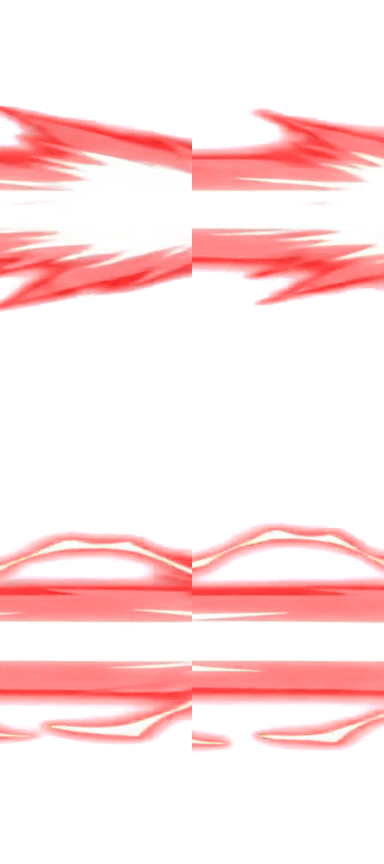
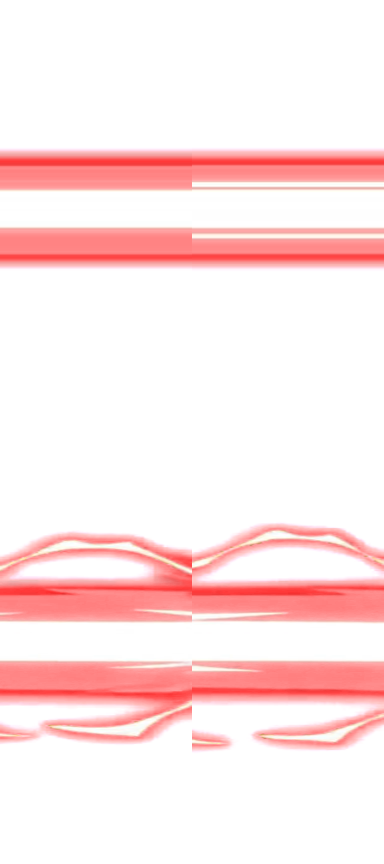
Align An ultimate beam joins only on frames 14 through 22

Changed region(s): [[0.0, 0.25, 1.0, 0.375], [0.0, 0.125, 1.0, 0.2188]]

diff --git a/an-ulti-preview.html b/an-ulti-preview.html
@@ -1,4 +1,5 @@
 <!doctype html><meta charset="utf-8"><title>Hitbox / Hurtbox ULTI An</title><style>body{background:#182131;color:white;font:16px system-ui;text-align:center}canvas{background:#536575;max-width:100%;height:auto}button,input{margin:8px}</style><h3>ULTI AN · Hitbox đỏ / Hurtbox xanh</h3><button id="play">Chạy / Dừng</button><button id="prev">← Frame trước</button><button id="next">Frame sau →</button><input id="frame" type="range" min="1" max="100" value="30"><span id="label"></span><br><label><input id="hit" type="checkbox" checked>Hitbox</label><label><input id="hurt" type="checkbox" checked>Hurtbox</label><button id="face">Đổi hướng</button><div><select id="kind"><option value="hit">Hitbox</option><option value="hurt">Hurtbox</option></select><select id="part"><option value="0">Thân / Hitbox 1</option><option value="1">Đầu / Hitbox 2</option></select><div id="fields"></div><button id="save">Lưu vào game</button><span id="status"></span></div><br><canvas width="1280" height="720"></canvas><script type="module">
+import seams from '/src/an-ulti-seams.json';
 import {ultiBoxEdits,ultiHurtPoints} from '/src/an-ulti-boxes.ts';
 import {getHitboxes,getHurtboxes} from '/src/geometry.ts';import {hitboxCorners} from '/src/hitbox-model.ts';import {AN_ULTI_SCALE as scale,AN_ULTI_ORIGIN_X as ox,AN_ULTI_ORIGIN_Y as oy} from '/src/an-ulti.ts';
 const canvas=document.querySelector('canvas'),ctx=canvas.getContext('2d'),slider=document.querySelector('#frame');let running=false,t=0,last=performance.now(),face=1;
@@ -20,5 +21,5 @@ function point(e){const r=canvas.getBoundingClientRect();return {x:(e.clientX-r.
 canvas.style.touchAction='none';canvas.style.cursor='move';canvas.onpointerdown=e=>{running=false;const p=point(e),i=+slider.value-1;let found;for(const kind of ['hurt','hit']){if(!document.querySelector('#'+kind).checked)continue;for(const [index,b] of boxes(i,kind).entries())if(inside(p,worldPoints(b,kind,index)))found={kind,index,b}}if(!found)return;document.querySelector('#kind').value=found.kind;document.querySelector('#part').value=found.index;drag={p,b:{...found.b}};lastFields='';canvas.setPointerCapture(e.pointerId)};
 canvas.onpointermove=e=>{if(!drag)return;const p=point(e);edit({x:drag.b.x+face*(p.x-drag.p.x),y:drag.b.y+p.y-drag.p.y})};canvas.onpointerup=canvas.onpointercancel=()=>drag=undefined;
 document.querySelector('#save').onclick=async()=>{try{const response=await fetch('/__dojo/an-ulti-boxes',{method:'POST',headers:{'Content-Type':'application/json'},body:JSON.stringify({overrides:dirty})}),data=await response.json();if(!response.ok)throw Error(data.error);Object.assign(ultiBoxEdits,dirty);dirty={};localStorage.removeItem(draftKey);document.querySelector('#status').textContent='Đã lưu vào game'}catch(e){document.querySelector('#status').textContent=e.message}};
-function draw(now){if(running){t=(t+(now-last)/1000)%4;slider.value=Math.floor(t*25)+1}last=now;const i=+slider.value-1,p=Math.floor(i/4),k=i%4;const f={x:640,y:0,face,hp:250,collisionSkin:'an',action:'idle',time:0,ultiTime:(i+.5)/25};ctx.clearRect(0,0,1280,720);ctx.save();ctx.translate(f.x,665);ctx.scale(face,1);ctx.drawImage(pages[p],k%2*768,Math.floor(k/2)*432,672,432,-ox*scale,-oy*scale,672*scale,432*scale);const start=(672-ox)*scale,width=face>0?1280-f.x-start:f.x-start;ctx.drawImage(beams[p],k%2*192,Math.floor(k/2)*432,192,432,start,-oy*scale,Math.max(0,width),432*scale);ctx.restore();if(document.querySelector('#hurt').checked)for(const [index,b] of boxes(i,'hurt').entries())poly(worldPoints(b,'hurt',index),'#00ff88');if(document.querySelector('#hit').checked)for(const b of boxes(i,'hit'))poly(worldPoints(b),'#ff2244');sync();document.querySelector('#label').textContent=`Frame ${i+1}/100 · ${((i+.5)/25).toFixed(2)} / 4 giây`;requestAnimationFrame(draw)}requestAnimationFrame(draw);
+function draw(now){if(running){t=(t+(now-last)/1000)%4;slider.value=Math.floor(t*25)+1}last=now;const i=+slider.value-1,p=Math.floor(i/4),k=i%4,seam=seams[i]??672;const f={x:640,y:0,face,hp:250,collisionSkin:'an',action:'idle',time:0,ultiTime:(i+.5)/25};ctx.clearRect(0,0,1280,720);ctx.save();ctx.translate(f.x,665);ctx.scale(face,1);ctx.drawImage(pages[p],k%2*768,Math.floor(k/2)*432,seam,432,-ox*scale,-oy*scale,seam*scale,432*scale);const start=(seam-ox)*scale,width=face>0?1280-f.x-start:f.x-start;ctx.drawImage(beams[p],k%2*192,Math.floor(k/2)*432,192,432,start,-oy*scale,Math.max(0,width),432*scale);ctx.restore();if(document.querySelector('#hurt').checked)for(const [index,b] of boxes(i,'hurt').entries())poly(worldPoints(b,'hurt',index),'#00ff88');if(document.querySelector('#hit').checked)for(const b of boxes(i,'hit'))poly(worldPoints(b),'#ff2244');sync();document.querySelector('#label').textContent=`Frame ${i+1}/100 · ${((i+.5)/25).toFixed(2)} / 4 giây`;requestAnimationFrame(draw)}requestAnimationFrame(draw);
 </script>

diff --git a/src/main.ts b/src/main.ts
@@ -1,3 +1,4 @@
+import anUltiSeams from './an-ulti-seams.json';
 import {AN_ULTI_SCALE,AN_ULTI_ORIGIN_X,AN_ULTI_ORIGIN_Y} from './an-ulti';
 import {ULTI_SCALE,ULTI_ORIGIN_X,ULTI_ORIGIN_Y} from './yuki-ulti';
 import {fighterDepth} from './fighter-layer';
@@ -112,8 +113,9 @@ class Dojo extends Phaser.Scene{
  if(this.textures.exists(`${skin}-ulti-${requestedPage}`)&&this.textures.exists(`${skin}-ulti-beam-${requestedPage}`))this.ultiShownFrames[skin]=requested;
  const index=this.ultiShownFrames[skin],page=Math.floor(index/4),key=`${skin}-ulti-${page}`,beam=`${skin}-ulti-beam-${page}`,scale=skin==='an'?AN_ULTI_SCALE:ULTI_SCALE,ox=skin==='an'?AN_ULTI_ORIGIN_X:ULTI_ORIGIN_X,oy=skin==='an'?AN_ULTI_ORIGIN_Y:ULTI_ORIGIN_Y;
  if(!this.textures.exists(key)||!this.textures.exists(beam))continue;
- this.sprites[i].setTexture(key,index%4).setCrop(0,0,672,432).setFlipX(false).setScale(f.face*scale,scale).setOrigin(ox/768,oy/432).setDepth(5);
- const extension=this.ultiBeams[skin]??(this.ultiBeams[skin]=this.add.image(0,0,beam)),x=f.x+f.face*(672-ox)*scale,width=f.face>0?Math.max(0,1280-x):Math.max(0,x);extension.setTexture(beam,index%4).setVisible(true).setDepth(5).setOrigin(f.face>0?0:1,0).setFlipX(f.face<0).setPosition(x,SPRITE_BASELINE+f.y-oy*scale).setDisplaySize(width,432*scale);
+ const seam=skin==='an'?((anUltiSeams as Record<string,number>)[index]??672):672;
+ this.sprites[i].setTexture(key,index%4).setCrop(0,0,seam,432).setFlipX(false).setScale(f.face*scale,scale).setOrigin(ox/768,oy/432).setDepth(5);
+ const extension=this.ultiBeams[skin]??(this.ultiBeams[skin]=this.add.image(0,0,beam)),x=f.x+f.face*(seam-ox)*scale,width=f.face>0?Math.max(0,1280-x):Math.max(0,x);extension.setTexture(beam,index%4).setVisible(true).setDepth(5).setOrigin(f.face>0?0:1,0).setFlipX(f.face<0).setPosition(x,SPRITE_BASELINE+f.y-oy*scale).setDisplaySize(width,432*scale);
  }
  combat.fighters.forEach((f,i)=>{if(f.ultiTime===undefined&&combat.fighters[1-i].ultiTime!==undefined)this.sprites[i].setDepth(6)});
  }
